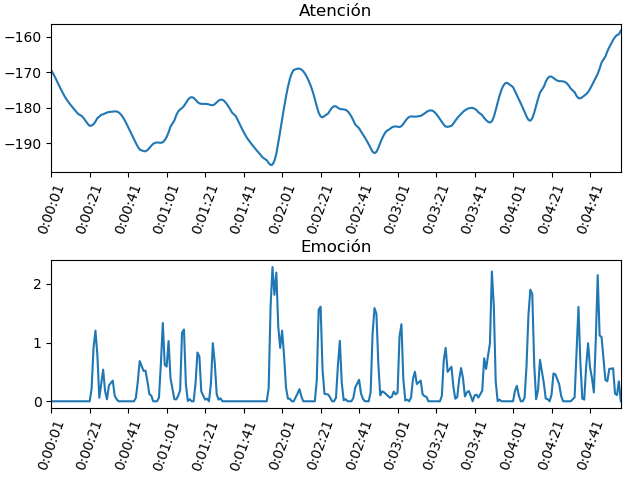
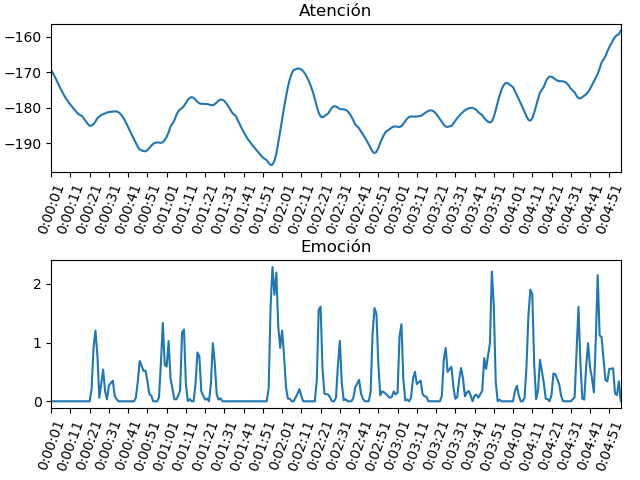
Colocado el logotipo de SocioGraph en la interfaz de usuario

diff --git a/formato2v1.py b/formato2v1.py
@@ -1,5 +1,6 @@
 import wx
 import wx.media
+import wx.lib.buttons
 import interfaz
 import sys
 import csv
@@ -46,7 +47,6 @@ def previsualizar(video, barra_tiempo):
 
     def actualizar(e):
         print("actualizar")
-        #reproductor.player.Tell()
         #Establezco el valor del slider segun la posicion del video
         slider.SetValue(reproductor.player.Tell()/1000)
 
@@ -61,68 +61,46 @@ def previsualizar(video, barra_tiempo):
 
     # Crear ventana para el video
     reproductor = interfaz.Menu(1500, 1000)
-    reproductor.SetBackgroundColour("WHITE")
-    # reproductor.Maximize()
+    reproductor.SetBackgroundColour("LIGHT BLUE")
+    reproductor.Maximize()
     reproductor.Bind(wx.EVT_CLOSE, cerrar)
 
-    # Creacion de sizers
-    main_sizer = wx.GridSizer(2, 1, 0, 0)
+    main_sizer=wx.GridSizer(2,1,0,0)
 
-    sizer_video = wx.GridSizer(1, 3, 0, 0)
+    sizer_video=wx.GridSizer(1,3,0,0)
     main_sizer.Add(sizer_video, 1, wx.EXPAND, 5)
 
-    # sizer video
-    izqvi = wx.BoxSizer(wx.VERTICAL)
-    sizer_video.Add(izqvi, 1, wx.EXPAND, 5)
-    centrovi = wx.BoxSizer(wx.VERTICAL)
-    sizer_video.Add(centrovi, 1, wx.EXPAND, 5)
-    dervi = wx.GridSizer(3, 1, 0, 0)
-    # Aqui los sizer de dentro de Dervi
-    sizer_video.Add(dervi, 1, wx.EXPAND, 5)
-
-    # sizers grafica
-    sizer_grafica = wx.GridSizer(1, 3, 0, 0)
-    izqgr = wx.BoxSizer(wx.VERTICAL)
-
-    sizer_grafica.Add(izqgr, 1, wx.EXPAND, 5)
-
-    centrogr = wx.BoxSizer(wx.VERTICAL)
-
-    sizer_grafica.Add(centrogr, 1, wx.EXPAND, 5)
-
-    # dergr = wx.BoxSizer(wx.VERTICAL)
-
-    # sizer_grafica.Add(dergr, 1, wx.EXPAND, 5)
-
+    sizer_grafica=wx.GridSizer(1,3,0,0)
     main_sizer.Add(sizer_grafica, 1, wx.EXPAND, 5)
 
+    panel_botones = wx.Panel(reproductor)
+    sizer_video.Add(panel_botones)
     panel_video = wx.Panel(reproductor)
-    centrovi.Add(panel_video)
-    panel_izqvi = wx.Panel(reproductor)
-    izqvi.Add(panel_izqvi)
+    sizer_video.Add(panel_video)
+    #sizer_dervi= wx.GridSizer(3, 1, 0, 0)
+    #sizer_video.Add(sizer_dervi)
+    panel_dervi=wx.Panel(reproductor)
+    sizer_video.Add(panel_dervi)
+    #sizer_dervi.Add(panel_dervi)
+    wx.StaticBitmap(panel_dervi, -1, wx.Bitmap(name="socio2.png"), pos=(0, 0), size=wx.DefaultSize, style=wx.ALIGN_RIGHT)
 
-    panel_grafica = wx.Panel(reproductor)
-    centrogr.Add(panel_grafica)
+
+
     panel_izqgr=wx.Panel(reproductor)
-    izqgr.Add(panel_izqgr)
+    sizer_grafica.Add(panel_izqgr)
+    panel_grafica = wx.Panel(reproductor)
+    sizer_grafica.Add(panel_grafica)
+
 
     # Video
-    boton_play = wx.Button(panel_izqvi, label="Play")
-    boton_pause = wx.Button(panel_izqvi, label="Pause", pos=(30, 30))
+    boton_play = wx.Button(panel_botones, label="Play")
+    boton_pause = wx.Button(panel_botones, label="Pause", pos=(30, 30))
     boton_play.Bind(wx.EVT_BUTTON,cargado)
     boton_pause.Bind(wx.EVT_BUTTON, pause)
 
-    reproductor.player = wx.media.MediaCtrl(panel_video, pos=(0, 0), size=(500, 250))
+    reproductor.player = wx.media.MediaCtrl(panel_video, pos=(0, 0), size=(640, 400))
     reproductor.player.ShowPlayerControls(flags=wx.media.MEDIACTRLPLAYERCONTROLS_VOLUME)
-    # reproductor.Bind(wx.media.EVT_MEDIA_LOADED,cargado)
     reproductor.player.Load(r"madrid.mp4")
-    # reproductor.player.Play()
-    # print(reproductor.player.Length())
-
-    # Barra y grafica
-
-    # reproductor.Bind(wx.media.EVT_MEDIA_PAUSE,lambda e,ejex=ejex:barra(e,ejex))
-
 
     # Grafica
 
@@ -132,8 +110,8 @@ def previsualizar(video, barra_tiempo):
     timer=wx.Timer(reproductor.player)
     reproductor.player.Bind(wx.EVT_TIMER,actualizar,timer)
 
-
     slider=wx.Slider(reproductor,pos=(20,500),style=wx.SL_VALUE_LABEL)
+    slider.Hide()
     slider.SetRange(0,len(barra_tiempo))
     barra_mover=wx.StaticBitmap(panel_grafica, -1, wx.Bitmap(name="barra2.png"), pos=(52, 30))
 
@@ -168,7 +146,7 @@ def graficas(csvp):
     # tiempo tiene todos los valores del tiempo del csv
 
     # Elegir cada cuanto quieres las etiquetas en la grafica
-    usuario = 20
+    usuario = 10
 
     # for para guardar solo los tiempos que interesan
     for i in range(0, len(tiempo), usuario):
@@ -231,3 +209,36 @@ btn_gen = interfaz.Boton(panel, "Generar video", 240, 120)
 menu.Bind(wx.EVT_CLOSE, cerrar)
 menu.Show()
 app.MainLoop()
+
+"""
+    # Creacion de sizers (Antiguos sizers)
+    main_sizer = wx.GridSizer(2, 1, 0, 0)
+
+    sizer_video = wx.GridSizer(1, 3, 0, 0)
+    main_sizer.Add(sizer_video, 1, wx.EXPAND, 5)
+
+    # sizer video
+    izqvi = wx.BoxSizer(wx.VERTICAL)
+    sizer_video.Add(izqvi, 1, wx.EXPAND, 5)
+    centrovi = wx.BoxSizer(wx.VERTICAL)
+    sizer_video.Add(centrovi, 1, wx.EXPAND, 5)
+    dervi = wx.GridSizer(3, 1, 0, 0)
+    # Aqui los sizer de dentro de Dervi
+    sizer_video.Add(dervi, 1, wx.EXPAND, 5)
+
+    # sizers grafica
+    sizer_grafica = wx.GridBagSizer()
+    izqgr = wx.BoxSizer(wx.VERTICAL)
+
+    sizer_grafica.Add(izqgr,pos=(0,0),span=(1,1))
+
+    centrogr = wx.BoxSizer(wx.VERTICAL)
+
+    sizer_grafica.Add(centrogr,pos=(0,1),span=(1,2))
+
+    # dergr = wx.BoxSizer(wx.VERTICAL)
+
+    # sizer_grafica.Add(dergr, 1, wx.EXPAND, 5)
+
+    main_sizer.Add(sizer_grafica, 1, wx.EXPAND, 5)
+    """

diff --git a/borrar.py b/borrar.py
@@ -1,44 +1,85 @@
 import wx
-import w
-
-def cargado(e):
-    player.Play()
-
-app = wx.App()
-
-frame = wx.Frame(None, title="Prueba", size=(1000, 800))
-
-# Creacion de sizers
-main_sizer = wx.GridSizer(2, 1, 0, 0)
-
-sizer_video = wx.GridSizer(0, 2, 0, 0)
-main_sizer.Add(sizer_video, 1, wx.EXPAND, 5)
-
-sizer_grafica = wx.GridSizer(0, 2, 0, 0)
-main_sizer.Add(sizer_grafica, 1, wx.EXPAND, 5)
-
-panel_video = wx.Panel(frame)
-sizer_video.Add(panel_video)
-
-panel_grafica = wx.Panel(frame)
-sizer_grafica.Add(panel_grafica)
-
-# Video
-
-player=wx.media.MediaCtrl(panel_video,pos=(250,0),size=(500,250))
-player.Load("madrid.mp4")
-panel_video.Bind(wx.media.EVT_MEDIA_LOADED, cargado)
 
 
-# Graficas
+class MyForm(wx.Frame):
+
+    def __init__(self):
+        wx.Frame.__init__(self, None, wx.ID_ANY, 'My Form')
+
+        # Add a panel so it looks the correct on all platforms
+        self.panel = wx.Panel(self, wx.ID_ANY)
+
+        bmp = wx.ArtProvider.GetBitmap(wx.ART_INFORMATION, wx.ART_OTHER, (16, 16))
+        font = wx.Font(12, wx.SWISS, wx.NORMAL, wx.BOLD)
+
+        titleIco = wx.StaticBitmap(self.panel, wx.ID_ANY, bmp)
+        title = wx.StaticText(self.panel, wx.ID_ANY, 'My Title')
+        title.SetFont(font)
+
+        # 1st row of widgets
+        bmp = wx.ArtProvider.GetBitmap(wx.ART_TIP, wx.ART_OTHER, (16, 16))
+        inputOneIco = wx.StaticBitmap(self.panel, wx.ID_ANY, bmp)
+        labelOne = wx.StaticText(self.panel, wx.ID_ANY, 'Name')
+        inputTxtOne = wx.TextCtrl(self.panel, wx.ID_ANY, '')
+
+        sampleList = ['zero', 'one', 'two', 'three', 'four', 'five',
+                      'six', 'seven', 'eight']
+        rb = wx.RadioBox(
+            self.panel, wx.ID_ANY, "wx.RadioBox", wx.DefaultPosition,
+            wx.DefaultSize, sampleList, 2, wx.RA_SPECIFY_COLS
+        )
+
+        # 2nd row of widgets
+        multiTxt = wx.TextCtrl(self.panel, wx.ID_ANY, '',
+                               size=(200, 100),
+                               style=wx.TE_MULTILINE)
+        sampleList = ['one', 'two', 'three', 'four']
+        combo = wx.ComboBox(self.panel, wx.ID_ANY, 'Default', wx.DefaultPosition,
+                            (100, -1), sampleList, wx.CB_DROPDOWN)
+
+        # Create the sizers
+        topSizer = wx.BoxSizer(wx.VERTICAL)
+        titleSizer = wx.BoxSizer(wx.HORIZONTAL)
+        bagSizer = wx.GridBagSizer(hgap=5, vgap=5)
+
+        # Add widgets to sizers
+        titleSizer.Add(titleIco, 0, wx.ALL, 5)
+        titleSizer.Add(title, 0, wx.ALL, 5)
+
+        bagSizer.Add(inputOneIco, pos=(0, 0),
+                     flag=wx.ALL | wx.ALIGN_CENTER_VERTICAL,
+                     border=5)
+        bagSizer.Add(labelOne, pos=(0, 1),
+                     flag=wx.ALL | wx.ALIGN_CENTER_VERTICAL,
+                     border=5)
+        bagSizer.Add(inputTxtOne, pos=(0, 2),
+                     flag=wx.EXPAND | wx.ALL,
+                     border=10)
+        bagSizer.AddGrowableCol(2, 0)
+        bagSizer.Add(rb, pos=(0, 3), span=(3, 2))
+
+        bagSizer.Add(multiTxt, pos=(1, 0),
+                     flag=wx.ALL,
+                     border=5)
+        bagSizer.Add(combo, pos=(1, 1),
+                     flag=wx.ALL,
+                     border=5)
+
+        # Add sub-sizers to topSizer
+        topSizer.Add(titleSizer, 0, wx.CENTER)
+        topSizer.Add(wx.StaticLine(self.panel), 0, wx.ALL | wx.EXPAND, 5)
+        topSizer.Add(bagSizer, 0, wx.ALL | wx.EXPAND, 5)
+
+        self.panel.SetSizer(topSizer)
+
+        # SetSizeHints(minW, minH, maxW, maxH)
+        self.SetSizeHints(250, 200, 700, 300)
+        topSizer.Fit(self)
+
+    # Run the program
 
 
-
-# (Al final) Asignar el sizer orincipal a la ventana principal
-frame.SetSizer(main_sizer)
-frame.Layout()
-
-frame.Centre(wx.BOTH)
-
-frame.Show()
-app.MainLoop()
+if __name__ == '__main__':
+    app = wx.App()
+    frame = MyForm().Show()
+    app.MainLoop()
